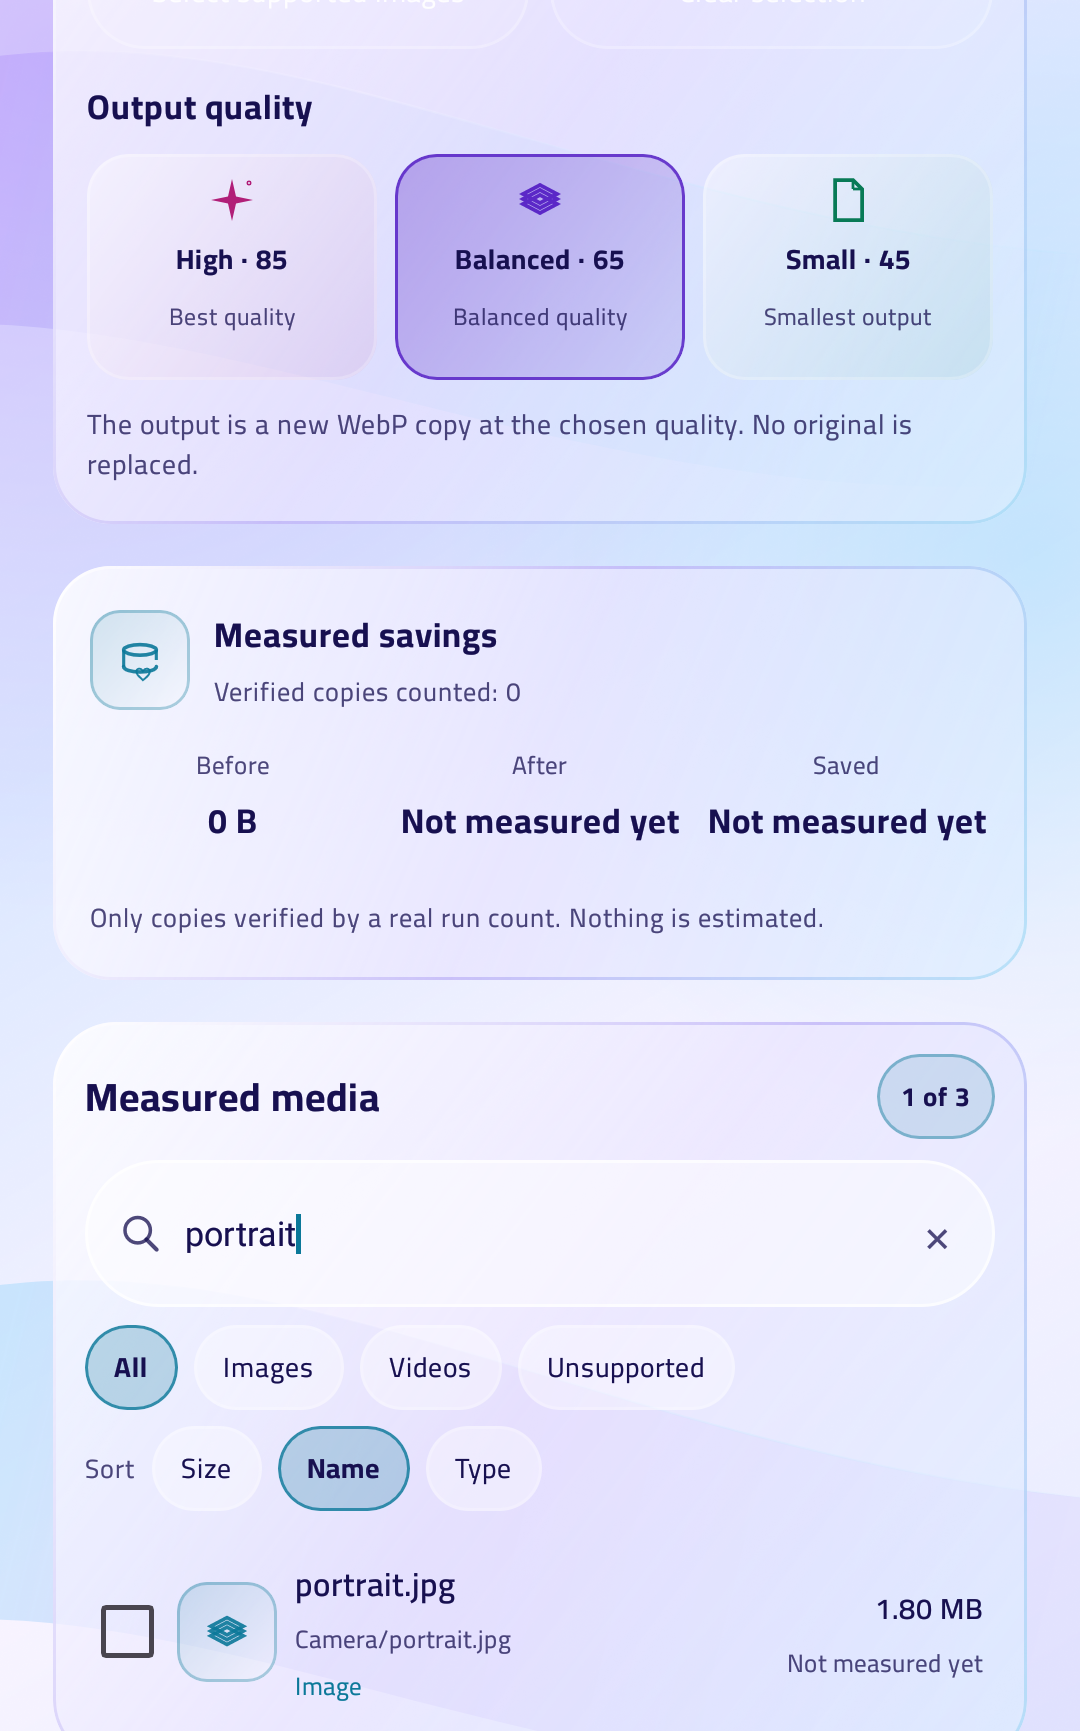
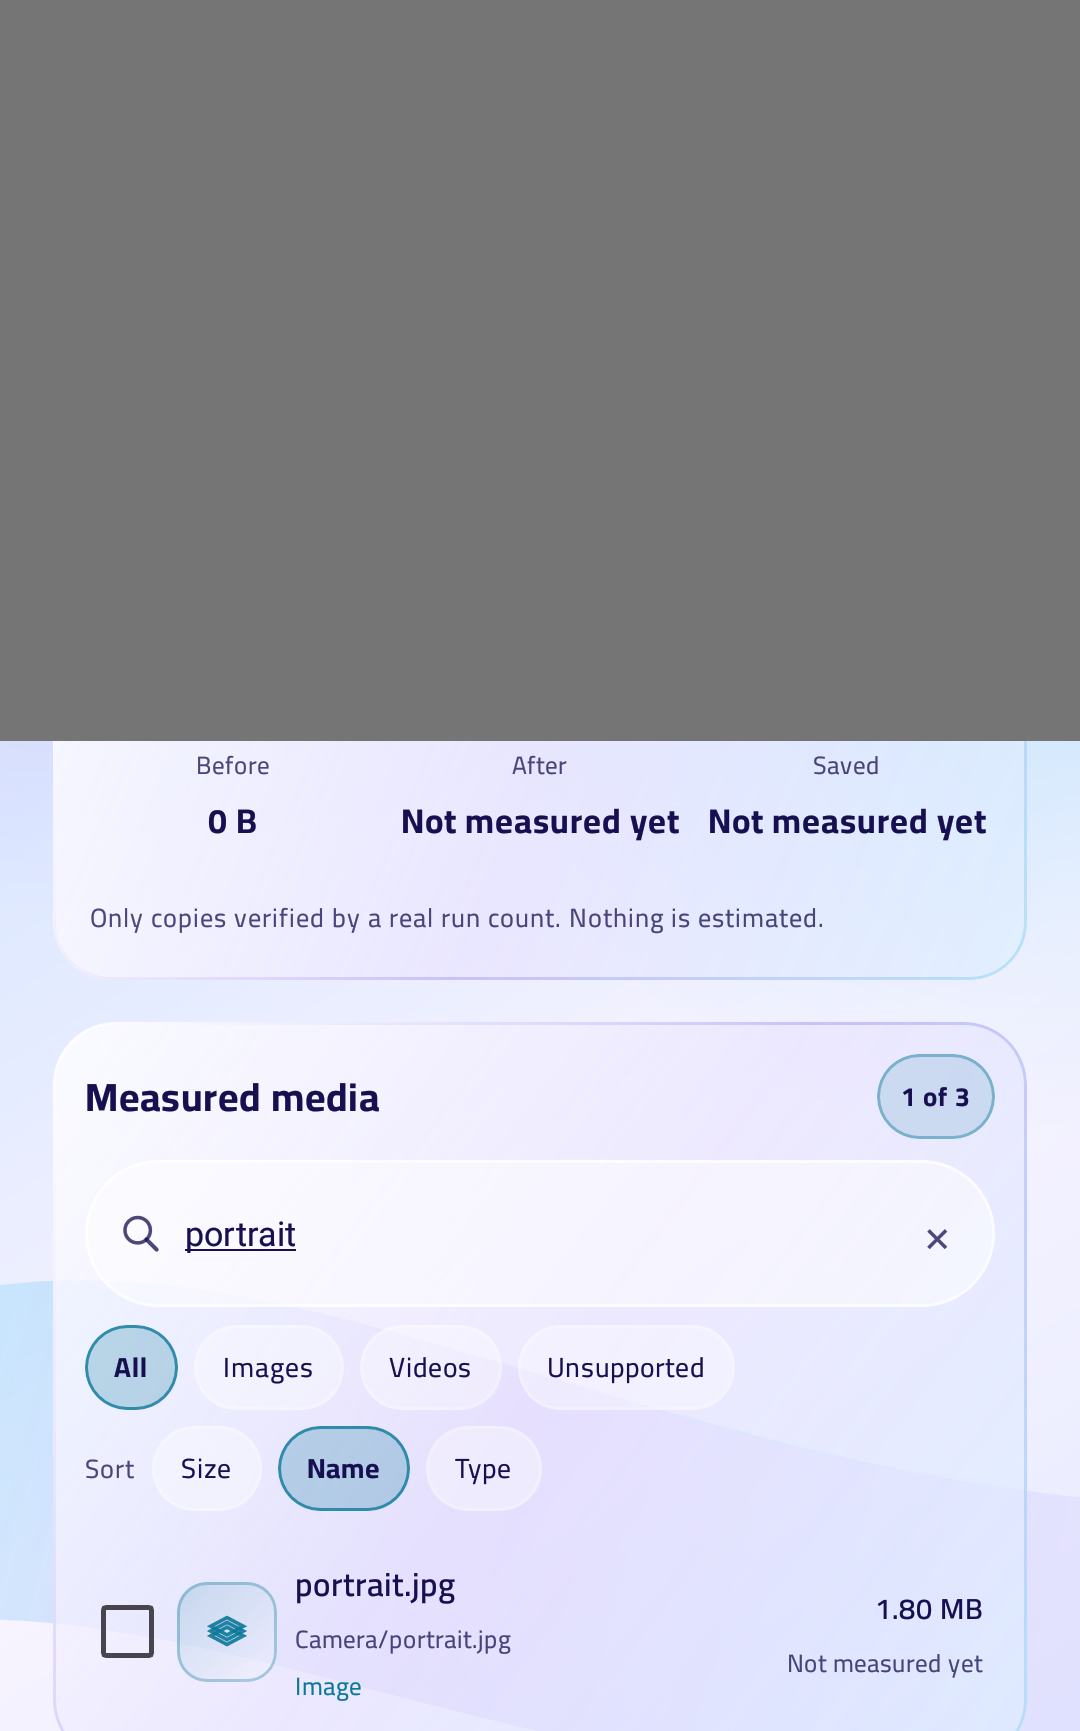
fix(media): dismiss search IME with IME action, not back key, on API 26
The back-key keyboard dismissal closed the host activity on API 26 and
detached the Compose hierarchy ('No compose hierarchies found'), failing
reference17SearchAndFiltersOnlyNarrowMeasuredRows. Use the field's Search
IME action so the keyboard hides inside the app while the activity stays
alive. Also regenerate the search and Videos-filter evidence frames.

diff --git a/android/app/src/main/java/com/knoux/kxprivatevpn/features/MediaResultsReference.kt b/android/app/src/main/java/com/knoux/kxprivatevpn/features/MediaResultsReference.kt
@@ -23,6 +23,8 @@ import androidx.compose.foundation.selection.toggleable
 import androidx.compose.foundation.shape.CircleShape
 import androidx.compose.foundation.shape.RoundedCornerShape
 import androidx.compose.foundation.text.BasicTextField
+import androidx.compose.foundation.text.KeyboardActions
+import androidx.compose.foundation.text.KeyboardOptions
 import androidx.compose.material3.Checkbox
 import androidx.compose.material3.LinearProgressIndicator
 import androidx.compose.material3.Text
@@ -38,6 +40,7 @@ import androidx.compose.ui.graphics.Brush
 import androidx.compose.ui.graphics.Color
 import androidx.compose.ui.graphics.SolidColor
 import androidx.compose.ui.platform.LocalContext
+import androidx.compose.ui.platform.LocalFocusManager
 import androidx.compose.ui.platform.testTag
 import androidx.compose.ui.res.stringResource
 import androidx.compose.ui.semantics.Role
@@ -45,6 +48,7 @@ import androidx.compose.ui.semantics.contentDescription
 import androidx.compose.ui.semantics.semantics
 import androidx.compose.ui.text.TextStyle
 import androidx.compose.ui.text.font.FontWeight
+import androidx.compose.ui.text.input.ImeAction
 import androidx.compose.ui.text.style.TextAlign
 import androidx.compose.ui.text.style.TextOverflow
 import androidx.compose.ui.unit.dp
@@ -640,12 +644,15 @@ private fun MediaResultsList(
 @Composable
 private fun MediaSearchField(night: Boolean, value: String, onValueChange: (String) -> Unit) {
     val label = stringResource(R.string.media_ref_search)
+    val focusManager = LocalFocusManager.current
     BasicTextField(
         value = value,
         onValueChange = onValueChange,
         singleLine = true,
         textStyle = TextStyle(color = kxInk(night), fontSize = 13.sp),
         cursorBrush = SolidColor(kxCyan(night)),
+        keyboardOptions = KeyboardOptions(imeAction = ImeAction.Search),
+        keyboardActions = KeyboardActions(onSearch = { focusManager.clearFocus() }),
         modifier = Modifier.fillMaxWidth().heightIn(min = 44.dp)
             .clip(RoundedCornerShape(50))
             .background(Color.White.copy(alpha = if (night) .08f else .48f))

diff --git a/android/app/src/androidTest/java/com/knoux/kxprivatevpn/MediaSlimScreenTest.kt b/android/app/src/androidTest/java/com/knoux/kxprivatevpn/MediaSlimScreenTest.kt
@@ -4,7 +4,6 @@ import android.content.Context
 import android.content.res.Configuration
 import android.graphics.Bitmap
 import android.text.format.Formatter
-import android.view.KeyEvent
 import androidx.compose.foundation.layout.Box
 import androidx.compose.foundation.layout.fillMaxSize
 import androidx.compose.material3.LocalContentColor
@@ -158,12 +157,6 @@ class MediaSlimScreenTest {
                 compose.onAllNodes(hasTestTag("route-media")).fetchSemanticsNodes().isNotEmpty()
             }.getOrDefault(false)
         }
-        compose.waitForIdle()
-    }
-
-    /** The compose rule hosts no activity handle, so the IME is dismissed with a real back key. */
-    private fun hideKeyboard() {
-        InstrumentationRegistry.getInstrumentation().sendKeyDownUpSync(KeyEvent.KEYCODE_BACK)
         compose.waitForIdle()
     }
 
@@ -408,7 +401,10 @@ class MediaSlimScreenTest {
         compose.onNodeWithTag("media-file-img").assertExists()
         compose.onNodeWithTag("media-file-vid").assertDoesNotExist()
         compose.onNodeWithTag("media-file-gif").assertDoesNotExist()
-        hideKeyboard()
+        // The Search IME action clears focus and hides the keyboard inside the app. A back key
+        // would close the host activity on API 26 and detach the compose hierarchy.
+        compose.onNodeWithTag("media-search").performImeAction()
+        compose.waitForIdle()
         compose.onNodeWithTag("media-file-img").performScrollTo().assertIsDisplayed()
         capture("92-media-ref17-search")
 
